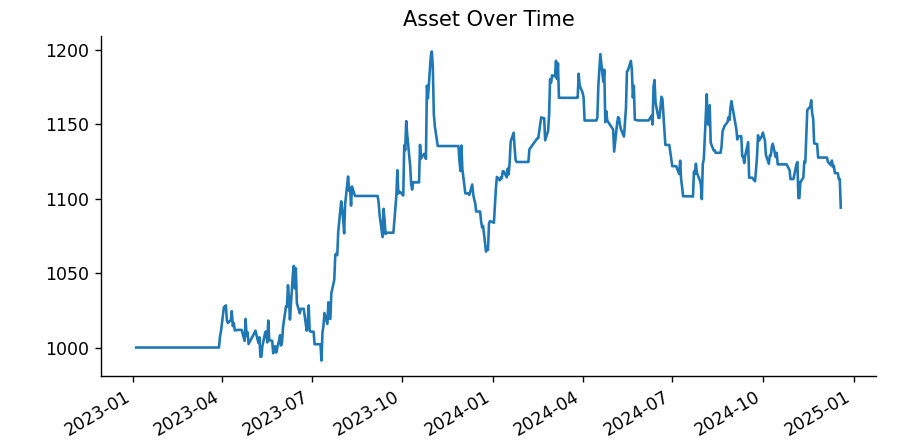
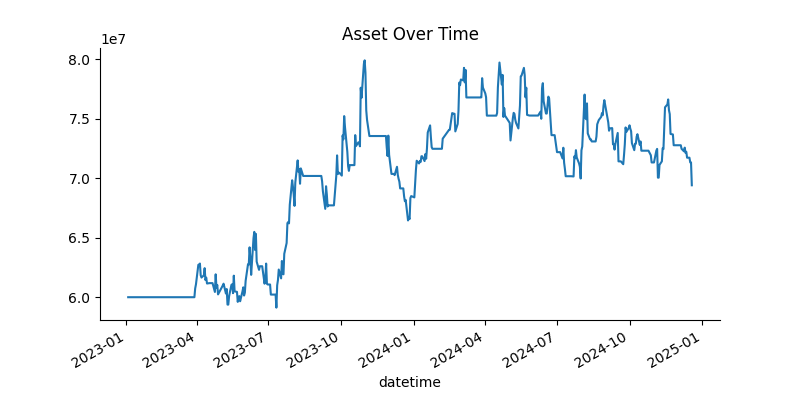
Update TEMP.md with dataset handling details and optimize trading parameters in configuration files

diff --git a/src/optimizer/position.py b/src/optimizer/position.py
@@ -4,45 +4,65 @@ from typing import List
 # Define the cut loss threshold and take profit threshold
 CUT_LOSS_THRES = -8 
 TAKE_PROFIT_THRES = 40 
+MULTIPLIER = 100000
+TRANSACTION_FEE = 0.47
+MARGIN_RATIO = 0.175
+AR_TARGET = 0.8
+
+def calculate_margin(price: float) -> float:
+    margin_required = price * MARGIN_RATIO * MULTIPLIER
+    deposit_required = margin_required / AR_TARGET
+    return deposit_required
 
 def open_position(
     position_type: str,
     entry_point: float,
+    asset_value: float,
     holdings: List[[str, float]]
 ):
     # YOUR CODE HERE
-    holdings.append((position_type, entry_point))
+    deposit_required = calculate_margin(entry_point)
+    if deposit_required > asset_value:
+        print(f"Insufficient funds to open a {position_type} position at {entry_point} with current asset value: {asset_value:.2f}")
+        return holdings, False
+    else:
+        holdings.append((position_type, entry_point))
+        # asset_value -= deposit_required
 
-    return holdings
+    return holdings, True
 
 def close_positions(
     cur_price: float,
+    asset_value: float,
     holdings: List[[str, float]],
     loss_threshold: float,
     date: str,
     histogram: float
 ):
+
     total_realized_pnl = 0
     total_unrealized_pnl = 0
     updated_holdings = []
+    if len(holdings) == 0:
+        return holdings, total_realized_pnl, total_unrealized_pnl, asset_value
 
     for position_type, entry_point in holdings:
         # Calculate profit/loss for each position
-        pnl = (cur_price - entry_point) if position_type == 'long' else (entry_point - cur_price)
+        raw_pnl = (cur_price - entry_point) if position_type == 'long' else (entry_point - cur_price)
+        pnl = raw_pnl - TRANSACTION_FEE
         
         # Check if the position should be closed based on the histogram or thresholds
         if (position_type == 'long' and histogram <= 0) or (position_type == 'short' and histogram >= 0) or \
            pnl <= loss_threshold:
             # Close position
             # print(f"Close at: {date} with profit: {pnl:.2f}")
-            total_realized_pnl += (pnl - 0.47)  # Subtracting the transaction cost
+            total_realized_pnl += (pnl * MULTIPLIER)
+            # Update asset value when position is realized
+            asset_value += total_realized_pnl
+            
         else:
             # Keep position open
-            if position_type == 'long':
-                unrealized_pnl = cur_price - entry_point
-            else:
-                unrealized_pnl = entry_point - cur_price
-            total_unrealized_pnl += unrealized_pnl
+            total_unrealized_pnl += (raw_pnl * MULTIPLIER)
             updated_holdings.append((position_type, entry_point))
 
-    return updated_holdings, total_realized_pnl, total_unrealized_pnl
+    return updated_holdings, total_realized_pnl, total_unrealized_pnl, asset_value

diff --git a/src/strategy/backtest.py b/src/strategy/backtest.py
@@ -1,12 +1,13 @@
 from ..optimizer.position import *
 
 
-def backtest(data, signals, loss_threshold):
+def backtest(data, signals, loss_threshold, initial_asset=40000000):
     prev_date = None
     trading_data = data.copy()
-    asset_value = 1000
+    asset_value = initial_asset
     holdings = []
     count = 0
+    trade: bool = False
 
     # Loop through data history
     for date in data.index:
@@ -18,9 +19,8 @@ def backtest(data, signals, loss_threshold):
         histogram = data['Histogram'][date]
 
         # Close positions if conditions are met
-        holdings, total_realized_pnl, total_unrealized_pnl = close_positions(cur_price, holdings, loss_threshold, date, histogram)
-        # Update asset value when position is realized
-        asset_value += total_realized_pnl
+        holdings, total_realized_pnl, total_unrealized_pnl, asset_value = close_positions(cur_price, asset_value, holdings, loss_threshold, date, histogram)
+
         # Update asset history
         if total_realized_pnl == 0:
             trading_data.loc[date, 'Asset'] = asset_value + total_unrealized_pnl
@@ -36,16 +36,17 @@ def backtest(data, signals, loss_threshold):
         if (data['MACD'][date] > (data['MACD_signal'][date])) and \
            (data['close'][date] > signals['sma_50'][date]):
         #    (data['MACD'][date] < 0 and data['MACD_signal'][date] < 0) and \
-            holdings = open_position('long', cur_price, holdings)
+            holdings, trade = open_position('long', cur_price, asset_value, holdings)
             # print("Buy at: ", date)
-            count += 1
 
         # Sell if both ema lines are both above 0 + macd line < signal line + sma downtrend.
         elif (data['MACD'][date] < (data['MACD_signal'][date])) and \
              (data['close'][date] < signals['sma_50'][date]):
             #  (data['MACD'][date] > 0 and data['MACD_signal'][date] > 0) and \
-            holdings = open_position('short', cur_price, holdings)
+            holdings, trade = open_position('short', cur_price, asset_value, holdings)
             # print("Sold at: ", date)
+
+        if trade:
             count += 1
 
         prev_date = date  # Prepare for next iteration

diff --git a/main.py b/main.py
@@ -9,6 +9,7 @@ import json
 
 
 def main(in_sample=True):
+   INITIAL_ASSET = 60000000
    if in_sample:
       # load in-sample data and apply the strategy
       ohlc = load_data('database/indata.csv')
@@ -17,11 +18,13 @@ def main(in_sample=True):
       # plot(data, signals)
 
       # backtest the strategy and evaluate the performance
-      data = backtest(data, signals, -8)
+      data = backtest(data, signals, -8, INITIAL_ASSET)
       evaluation(data)
 
       # optimize the strategy
-      study = optuna.create_study(direction='maximize')
+      seed_value = 0
+      sampler = optuna.samplers.TPESampler(seed=seed_value)
+      study = optuna.create_study(sampler=sampler, direction='maximize')
       study.optimize(lambda trial: objective(trial, ohlc), n_trials=150, show_progress_bar=True)
 
       print("Best parameters: ", study.best_params)
@@ -46,8 +49,11 @@ def main(in_sample=True):
       ohlc = load_data('database/outdata.csv')
       strategy = MovingAverageCrossoverStrategy()
       signals, data = strategy.generate_signals(ohlc, best_params['short_ema'], best_params['long_ema'], best_params['signal_ema'], best_params['window'])
-      data = backtest(data, signals, best_params['CUT_LOSS_THRES'])
+      data = backtest(data, signals, best_params['CUT_LOSS_THRES'], INITIAL_ASSET)
+      # signals, data = strategy.generate_signals(ohlc, 12, 25, 17, 49)
+      # data = backtest(data, signals, -8, 40000000)
       evaluation(data)
 
 if __name__ == "__main__":
+   # main(True)
    main(False)

diff --git a/src/utils/download_data.py b/src/utils/download_data.py
@@ -75,4 +75,5 @@ def load_data(file_path):
    return ohlc
 
 
-# in_sample_data = connect_db(True)
+# connect_db(True) # in-sample data
+# connect_db(False) # out-sample data

diff --git a/TEMP.md b/TEMP.md
@@ -18,7 +18,7 @@ A crossover between short-term and long-term momentum signals can indicate poten
 
 ## 4. Implementation
 - Download libraries from `requirements.txt`.
-- Toggle the parameter of the `connect_db` function in `utils/download_data.py` to download both in-sample and out-sample datasets.
+- Toggle the parameter of the `connect_db` function in `utils/download_data.py` to download both in-sample and out-sample datasets. I already save both the datasets into csv files for later usage.
 - Run the `main` function to see the result of the strategy on out-sample data. If you want to test the in-sample data, just modify `main(True)`.
 
 ## 5. In-sample Backtesting
@@ -29,13 +29,14 @@ A crossover between short-term and long-term momentum signals can indicate poten
   - `signal_ema = 9`
   - `window_sma = 50`
   - `CUT_LOSS_THRES = -8`
+  - `INITIAL_ASSET = 60000000 (60 million)`
 - **Result**:
   - With initial parameters:
-    - Total asset after 2 years: 1094.04
-    - Total transactions: 39
-    - Return rate: 9.40%
-    - Sharpe ratio: 0.19
-    - Max Drawdown: -11.22%
+    - Total asset after 2 years: 69404000.00
+    - Total transactions: 172
+    - Return rate: 15.67%
+    - Sharpe ratio: 0.32
+    - Max Drawdown: -16.84%
   - ![Initial Parameters Result](image/initial.png)
 
 ## 6. Optimization
@@ -46,35 +47,36 @@ A crossover between short-term and long-term momentum signals can indicate poten
   signal_ema = trial.suggest_int('signal_ema', 7, 21)
   window = trial.suggest_int('window', 40, 80)
   CUT_LOSS_THRES = trial.suggest_int('CUT_LOSS_THRES', -15, -5)
+  seed_value = 0
 
 - **After Optimization parameters**:
-  - `short_ema = 16`
-  - `long_ema = 30`
-  - `signal_ema = 11`
-  - `window_sma = 49`
-  - `CUT_LOSS_THRES = -11`
+  - `short_ema = 12`
+  - `long_ema = 32`
+  - `signal_ema = 14`
+  - `window_sma = 48`
+  - `CUT_LOSS_THRES = -9`
 - **Result**:
   - With optimized parameters:
-   - Total asset after 2 year: 1226.01
-   - Total transaction: 27
-   - Return rate: 22.60
-   - Sharpe ratio: 0.66
-   - Max Drawdown: -11.01%
+   - Total asset after 2 year: 61050000.00
+   - Total transaction: 143
+   - Return rate: 52.62%
+   - Sharpe ratio: 0.83
+   - Max Drawdown: -20.06%
 ![alt text](image/optimized.png)
 
 ## 7. Out-sample Backtesting
 - **Data**: Backtest on data of 2 years from 2021 to 2022
 - **Parameters**: Take from the most optimized parameters of in-sample data
-  - `short_ema = 16`
-  - `long_ema = 30`
-  - `signal_ema = 11`
-  - `window_sma = 49`
-  - `CUT_LOSS_THRES = -11`
+  - `short_ema = 12`
+  - `long_ema = 32`
+  - `signal_ema = 14`
+  - `window_sma = 48`
+  - `CUT_LOSS_THRES = -9`
 - **Result**:
-   - Total asset after 2 year: 1131.25
-   - Total transaction: 36
-   - Return rate: 16.84
-   - Sharpe ratio: 0.34
-   - Max Drawdown: -35.41%
+   - Total asset after 2 year: 69330000.00
+   - Total transaction: 173
+   - Return rate: 21.75%
+   - Sharpe ratio: 0.39
+   - Max Drawdown: -55.48%
 ![alt text](image/outtesting.png)
 
